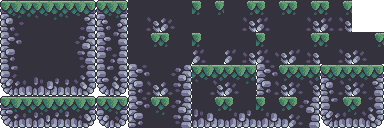
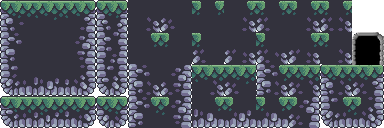
Add a door and key

Changed region(s): [[0.9062, 0.25, 1.0, 0.5312]]

diff --git a/PlatformGame/src/Character/Crab_Spawn.java b/PlatformGame/src/Character/Crab_Spawn.java
@@ -19,9 +19,10 @@ public class Crab_Spawn {
 	private int i = 0;
 	private int frame;
 	public  int Offset;
-
+	
+    public static boolean clearCrab = false;
 	public static final int CRABBY_WIDTH_DEFAULT = 72;
-	public static final int CRABBY_HEIGHT_DEFAULT = 32;
+	public static final int CRABBY_HEIGHT_DEFAULT = 37;
 	public static final int CRABBY_WIDTH = (int) (CRABBY_WIDTH_DEFAULT * MainGame.SCALE);
 	public static final int CRABBY_HEIGHT = (int) (CRABBY_HEIGHT_DEFAULT * MainGame.SCALE);
 	
@@ -42,7 +43,7 @@ public class Crab_Spawn {
 	}
 	
 	public void updateCrabState(){
-		if(i > 5) i = 0;
+		if(i > 4) i = 0;
 		frame = i++;
 	}
     
@@ -66,26 +67,27 @@ public class Crab_Spawn {
 
 			}else { 
 				if(crab.getDeadAniTick() < 200)
-			      g.drawImage(Animation[4][frame], (int)crab.x - Offset,(int)crab.y , CRABBY_WIDTH, CRABBY_HEIGHT, null);
+			      g.drawImage(Animation[2][frame], (int)crab.x - Offset,(int)crab.y , CRABBY_WIDTH, CRABBY_HEIGHT, null);
 				crab.deadAnimationTick++; 
 			}
 
 		} if(numCrabs == 0)
-			   MainGame.nextMap = true;
+			   clearCrab = true;
+//			   MainGame.nextMap = true;
 		
 	
 	}
 
 	private void loadEnemy() {
-		InputStream is = getClass().getResourceAsStream("/Enemy1.png");
+		InputStream is = getClass().getResourceAsStream("/e.png");
 
 		try {
 			img = ImageIO.read(is);
-			Animation = new BufferedImage[5][9];
+			Animation = new BufferedImage[3][5];
 			
-			for(int i = 0; i < 5; i++) {
+			for(int i = 0; i < 3; i++) {
 				for(int j = 0; j < Animation[i].length; j++) {
-					Animation[i][j] = img.getSubimage(j * 72, i * 32, 72, 32);
+					Animation[i][j] = img.getSubimage(j * 55, i * 37, 55, 37);
 				}
 			}
 		} catch (IOException e) {

diff --git a/PlatformGame/src/LoadMap/Load.java b/PlatformGame/src/LoadMap/Load.java
@@ -10,6 +10,7 @@ import javax.imageio.ImageIO;
 
 import Character.Crab;
 import Objects.Cannon;
+import Objects.Door;
 import Objects.Traps;
 import main.MainGame;
 
@@ -18,13 +19,13 @@ public class Load {
 
 	
 	public static final String MAP_LEVEL_ONE    = "Map1.png";
-	public static final String MAP_LEVEL_TWO    = "getstuck.png";
+	public static final String MAP_LEVEL_TWO    = "Map2.png";
 	public static final String MAP_LEVEL_TEST   = "MapTest.png";
 
 	public static final String TILE_2D = "2D Tiles.png";
 	public static final String HEALTH_BAR = "health_bar2.png";
 	public static ArrayList<String> mapControler;
-	public static int index = 0;
+	public static int index = 1;
 	
 	public static BufferedImage LoadImage(String name) {
 		BufferedImage image = null;
@@ -96,7 +97,7 @@ public class Load {
 	
 	public static int[][] GetMapLevelData() {
 		
-		BufferedImage img = LoadImage(mapControler.get(0));
+		BufferedImage img = LoadImage(mapControler.get(index));
 		int[][] levelData = new int[img.getHeight()][img.getWidth()];
 
         
@@ -107,6 +108,12 @@ public class Load {
 				
 				if (value >= 48)
                     value = 0;
+				
+				if(value == 23) {
+					Door.x = i*MainGame.TILES_SIZE;
+				    Door.y = j*MainGame.TILES_SIZE;
+				}    
+				
 				levelData[j][i] = value;
 			}
 		
@@ -129,8 +136,10 @@ public class Load {
 
 				if (value == 5) 
 					cannon.add(new Cannon(i*MainGame.TILES_SIZE, j*MainGame.TILES_SIZE));
-				if (value == 6) 
-					cannon.add(new Cannon(i*MainGame.TILES_SIZE, j*MainGame.TILES_SIZE));
+				if (value == 6) { 
+					Door.KeyX = i*MainGame.TILES_SIZE;
+				    Door.KeyY = j*MainGame.TILES_SIZE;
+				}    
 					
 				
 			}		

diff --git a/PlatformGame/src/Character/Enemy.java b/PlatformGame/src/Character/Enemy.java
@@ -66,6 +66,8 @@ public class Enemy extends Entity {
 				if(CheckHitBox.CheckEgde(enemySpeed,x + 30  + enemySpeed ,y , width, height ,levelData)) {
 					if(checkInRange()) 
 				    	 turnTowardsPlayer();
+					else
+						 changeDirAni();
 					checkGetStuck--;
 				    x += enemySpeed;
 				    return;		
@@ -83,9 +85,11 @@ public class Enemy extends Entity {
 
 	private void changeDir() {
 		if(enemyDir == 1) {
+			changeDirAni();
 			x += enemySpeed;
 			enemyDir = 0;
 		}else {
+			changeDirAni();
 			x -= enemySpeed;
 			enemyDir = 1;
 		}checkGetStuck++;
@@ -121,13 +125,17 @@ public class Enemy extends Entity {
             	
             if(dx > -70 && dx < -14 )
             	Player.PlayerGetHit = true;
-//            else if(dx > -36 && dx < -14)
-//            	Player.PlayerGetHitRight = true;
-           
-	        if(Player.PlayerX_RightPos > EnemyX_LeftPos)
+
+            
+	        if(Player.PlayerX_RightPos > EnemyX_LeftPos) {
+	        	enemyState = 1;
 			   return Math.abs(dx) < 87;
-	        else
+	        }else {
+	        	enemyState = 0;
 	           return Math.abs(dx) < 200;
+	        }
+	        
+	        
 	    }
 	
 	
@@ -151,6 +159,12 @@ public class Enemy extends Entity {
 		
 	}
 
+	private void changeDirAni() {
+		if(enemySpeed < 0)
+			enemyState = 0;
+		else
+			enemyState = 1;
+	}
 	
 	public boolean isActive() {
 		return active;

diff --git a/PlatformGame/src/main/Game_JPanel.java b/PlatformGame/src/main/Game_JPanel.java
@@ -1,10 +1,12 @@
 package main;
 
 
+import java.awt.Color;
 import java.awt.Dimension;
+import java.awt.Font;
 import java.awt.Graphics;
 
-
+import javax.swing.JLabel;
 import javax.swing.JPanel;
 
 
@@ -17,11 +19,15 @@ public class Game_JPanel extends JPanel{
     private PauseMenu pauseMenu;
     private DieMenu dieMenu;
     private PlayingMenu play;
+
+    private static JLabel notification;
     public static int selectionMenu = 2;
     
     
 	public Game_JPanel(MainGame game) {
 		this.game = game;	
+		
+
 		
 		pauseMenu = new PauseMenu();
 		pauseMenu.setVisible(false);
@@ -37,6 +43,7 @@ public class Game_JPanel extends JPanel{
         add(pauseMenu);
         add(dieMenu);
         add(play);
+        doorNotification();
 		setPanelSize();
 		
      }
@@ -48,6 +55,21 @@ public class Game_JPanel extends JPanel{
 		setPreferredSize(size);
 		setMaximumSize(size);
 
+	}
+	
+	private void doorNotification() {
+		notification = new JLabel("You need a key !!");
+		notification.setFont(new Font("Tahoma", Font.PLAIN, 150));
+		notification.setForeground(Color.black);
+		notification.setVisible(false);
+		add(notification);
+	}
+	
+	public static void displayNotification(int i) {
+		if( i == 0)
+		  notification.setVisible(false);
+		else
+		  notification.setVisible(true);
 	}
 
 	public void paintComponent(Graphics g) {	

diff --git a/PlatformGame/src/main/MainGame.java b/PlatformGame/src/main/MainGame.java
@@ -15,6 +15,7 @@ import KeyBoardInput.SwitchAction;
 import LoadMap.Load;
 import LoadMap.MapManager;
 import Objects.Cannon_Spawn;
+import Objects.Door;
 import Objects.Trap_Spawn;
 
 public class MainGame implements Runnable{
@@ -104,6 +105,9 @@ public class MainGame implements Runnable{
 		   cannon.Offset =  map.xLvlOffset;
 		   cannon.renderGeneral(g,player);
 	    }
+	    
+	  Door.checkRange(map.xLvlOffset);
+	  Door.checkKeyRange(map.xLvlOffset);
 
 	}
 	
@@ -134,6 +138,7 @@ public class MainGame implements Runnable{
 		 panel_game.dieMenu();
 	   }
 
+	   
    }
    
 	
@@ -166,11 +171,12 @@ public class MainGame implements Runnable{
 				lastTime = now;
 			}
 
-			if(nextMap) { 
+			if(nextMap && Door.getKey) { 
 				if(Load.index == 0)
 				   Load.index = 1;
 				else
 				   Load.index = 0;
+				Door.reset();
 				initializePlayer();
 			}	
 			nextMap = false;	
@@ -178,7 +184,7 @@ public class MainGame implements Runnable{
 				
 		
 			
-			if (System.currentTimeMillis() - lastCheck >= 5000 && check == 0) {
+			if (System.currentTimeMillis() - lastCheck >= 1000 && check == 0) {
 				if(!sound.checkActive()) getSound(songIndex);
 				lastCheck = System.currentTimeMillis();
 				

diff --git a/PlatformGame/src/Objects/Door.java b/PlatformGame/src/Objects/Door.java
@@ -1,0 +1,58 @@
+package Objects;
+
+import Character.Crab_Spawn;
+import Character.Player;
+import main.Game_JPanel;
+import main.MainGame;
+
+public class Door {
+
+	
+    public static int x;
+    public static int y;
+    
+    public static int KeyX;
+    public static int KeyY;
+    
+    
+    public static boolean getKey = false;
+    
+    public static void checkRange(int offSet) {
+    	
+    	double range = x - Player.PlayerX_RightPos - offSet;
+    	if(range <= 27 && !getKey )
+    		Game_JPanel.displayNotification(1);
+    	else
+    		Game_JPanel.displayNotification(0);
+
+    	if(range <= 27) 
+    		if(getKey && !Crab_Spawn.clearCrab)
+    		    System.out.println("Kill all enemies");
+    		else
+    			MainGame.nextMap = true;
+
+    }
+    
+    public static void checkKeyRange(int offSet) {
+    	double rangeX = KeyX - Player.PlayerX_RightPos - offSet;
+    	double rangeY = KeyY - Player.PlayerY_UpPos;
+    	
+    	if(Math.abs(rangeX) < 25 && rangeY > 45) 
+    		getKey = true;
+
+    }
+    
+    
+    
+    public static void reset() {
+         x = 0;
+         y = 0;       
+         KeyX = 0;
+         KeyY = 0;
+         getKey = false;
+    }
+
+	
+
+	
+}

diff --git a/PlatformGame/src/Objects/Trap_Spawn.java b/PlatformGame/src/Objects/Trap_Spawn.java
@@ -14,6 +14,7 @@ import LoadMap.Load;
 public class Trap_Spawn {
 
 	private BufferedImage img;
+	private BufferedImage imgKey;
 	private ArrayList<Traps> list;
 	
 	public int Offset;
@@ -36,6 +37,8 @@ public class Trap_Spawn {
 	
 	public void renderTraps(Graphics g) {
 		update();
+		if(!Door.getKey)
+		   renderKeys(g);
 		for(Traps trap : list) {		
 			 g.drawImage(img, (int)(trap.x  - Offset),(int) trap.y, 48, 48, null);
 		} 
@@ -43,10 +46,16 @@ public class Trap_Spawn {
 	
 	}
 	
+	private void renderKeys(Graphics g) {
+		g.drawImage(imgKey, (int)(Door.KeyX  - Offset),(int) Door.KeyY, 25, 40, null);
+	}
+	
 	private void load(){
 		InputStream is = getClass().getResourceAsStream("/Trap.png");
+		InputStream key = getClass().getResourceAsStream("/Key.png");
 		try {
 			img = ImageIO.read(is);
+			imgKey = ImageIO.read(key);
 		} catch (IOException e) {
 			e.printStackTrace();
 		}

diff --git a/PlatformGame/src/Character/Crab.java b/PlatformGame/src/Character/Crab.java
@@ -5,7 +5,7 @@ import main.MainGame;
 public class Crab extends Enemy {
 	
 	public static final int CRABBY_WIDTH_DEFAULT = 72;
-	public static final int CRABBY_HEIGHT_DEFAULT = 32;
+	public static final int CRABBY_HEIGHT_DEFAULT = 35;
 	public static final int CRABBY_WIDTH = (int) (CRABBY_WIDTH_DEFAULT * MainGame.SCALE);
 	public static final int CRABBY_HEIGHT = (int) (CRABBY_HEIGHT_DEFAULT * MainGame.SCALE);
 	public int firstCheck = 0;

diff --git a/PlatformGame/src/KeyBoardInput/Sound.java b/PlatformGame/src/KeyBoardInput/Sound.java
@@ -35,7 +35,6 @@ public class Sound {
 	}
 	
 	public void reset() {
-		clip.stop();
 		clip.setFramePosition(0);
 	}
 	
